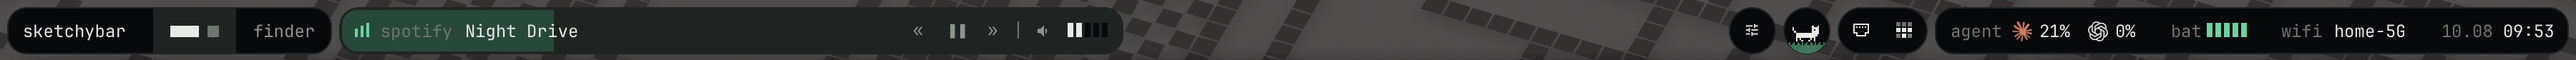
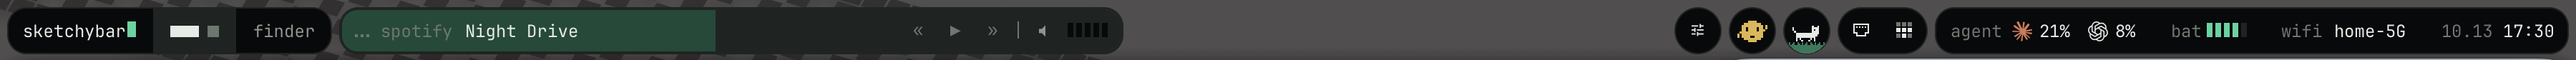
Add Pilo circle, one-shot startup, self-recovery, SSD row
- Pilo circle and popup (optional, needs Pilo): pixel face with arms for
  eight agent states, moving faces per row, legend at the bottom
- Startup: build the bar off screen, batch commands, show it once all
  values and widths are in place (about 2 s)
- health.sh / display.sh: re-measure after sleep or display changes and
  restart SketchyBar when its windows went missing
- SYSTEM popup: SSD used / total / free row
- Wi-Fi name shown in full (15 chars + ellipsis past 16)
- CAL_NEXT setting for the next-event text, default off
- README: Pilo requirement note, new bar and Pilo popup screenshots

Claude-Session: https://claude.ai/code/session_01UkBfjhtxxtx9h6gFCPMcpe

diff --git a/plugins/pixel.py b/plugins/pixel.py
@@ -70,3 +70,52 @@ for k in range(1, 5):
                         for xx in range(X0 + x0, X0 + x1): g[yy][xx] = col
         g = [[g[y][x] if inside_px(x, y) else None for x in range(66)] for y in range(66)]
         png_px(f'{out}/cc_{k}{wname}.png', g)
+# pilo circle (optional): a round face with two arms = the state of your Pilo agents. No mark icons - arm pose, expression and color only
+#   16×12 cells (3px each = 48×36px), dead centre of the 66px circle: origin (9, 15) → centre (33, 33). Body 10×10 cells (cols 3~12 · rows 1~10), arms 3 cells on each side
+#   pilo_<state>_<frame>.png (66×66) · pilo_s_<state>_<frame>.png (popup rows, 2px cells = 16×12pt)
+ERR = rgba(sys.argv[5]) if len(sys.argv) > 5 else W
+BODY = ['...####...', '.########.'] + ['##########'] * 6 + ['.########.', '...####...']   # rows 1~10
+ARM = {'down': [(6, 2), (7, 1), (8, 1)], 'mid': [(6, 2), (6, 1), (6, 0)], 'up': [(5, 2), (4, 1), (3, 0)], 'upb': [(5, 2), (4, 1), (3, 1)],
+       'droop': [(7, 2), (8, 2), (9, 2)], 'head': [(4, 2), (3, 2), (2, 3), (1, 4)], 'headb': [(4, 2), (3, 2), (2, 3)], 'tuck': [(7, 2), (8, 2)], None: []}
+EYES = {'open': [(4, 5), (5, 5)], 'shut': [(5, 4), (5, 5)], 'x': [(4, 4), (4, 6), (5, 5), (6, 4), (6, 6)], 'gt': [(4, 4), (5, 5), (6, 4)], 'dot': [(5, 5)]}   # left eye (the right one is mirrored)
+MOUTH = {'smile': [(7, 6), (8, 7), (8, 8), (7, 9)], 'o': [(8, 7), (8, 8)], 'flat': [(8, 6), (8, 7), (8, 8), (8, 9)], 'frown': [(8, 6), (7, 7), (7, 8), (8, 9)],
+         'low': [(8, 6), (8, 7), (8, 8), (8, 9)], 'low1': [(8, 7), (8, 8), (8, 9)], '': []}   # low/low1 = empty gauge (one cell left ↔ none)
+#  state: color, frames [(left arm, right arm, eyes, mouth, breathing)]
+POSES = {
+  'running': (T,   [('up', 'down', 'open', 'smile', 0), ('mid', 'mid', 'open', 'smile', 0), ('down', 'up', 'open', 'smile', 0), ('mid', 'mid', 'open', 'smile', 0)]),   # arms swinging in turn
+  'blocked': (W,   [('down', 'up', 'open', 'o', 0), ('down', 'upb', 'open', 'o', 0)]),                 # one arm up, waving
+  'stalled': (W,   [('droop', 'droop', 'dot', 'frown', 0), ('droop', 'droop', 'shut', 'frown', 0)]),   # arms limp, slow blink
+  'failed':  (ERR, [('up', 'up', 'x', 'flat', 0), ('upb', 'upb', 'x', 'flat', 0)]),                    # both arms up, flailing
+  'gaveUp':  (ERR, [('head', 'head', 'shut', 'flat', 0), ('headb', 'headb', 'shut', 'flat', 0)]),      # holding its head
+  'limited': (T3,  [('down', 'down', 'gt', 'low1', 0), ('down', 'down', 'gt', 'low', 0)]),             # arms down, empty gauge
+  'idle':    (T3,  [('tuck', 'tuck', 'shut', '', 0), ('tuck', 'tuck', 'shut', '', 1)]),                # arms tucked, asleep (breathing)
+  'unbound': (T3,  [(None, None, None, '', 0)]),                                                      # dim outline
+}
+def pose(state, k):  # 16×12 cells → color or None
+    col, frames = POSES[state]; la, ra, e, m, br = frames[k]
+    g = [[None] * 16 for _ in range(12)]
+    rows = BODY[1:] if br else BODY   # breathing: one cell shorter (the top comes down)
+    for r, line in enumerate(rows):
+        for c, ch in enumerate(line):
+            if ch == '#': g[r + 1 + br][c + 3] = col
+    if e is None:   # no session: outline only
+        full = [[bool(x) for x in row] for row in g]
+        for r in range(12):
+            for c in range(16):
+                if full[r][c] and all(0 <= r + dr < 12 and 0 <= c + dc < 16 and full[r + dr][c + dc] for dr, dc in ((1, 0), (-1, 0), (0, 1), (0, -1))): g[r][c] = None
+        return g
+    for r, c in EYES[e] + MOUTH[m]: g[r][c] = None
+    for r, c in EYES[e]: g[r][15 - c] = None
+    for r, c in ARM[la]: g[r][c] = col
+    for r, c in ARM[ra]: g[r][15 - c] = col
+    return g
+for st, (_, frames) in POSES.items():
+    for k in range(len(frames)):
+        g = [[None] * 66 for _ in range(66)]
+        for r, row in enumerate(pose(st, k)):
+            for c, col in enumerate(row):
+                if col:
+                    for yy in range(15 + r * 3, 18 + r * 3):
+                        for xx in range(9 + c * 3, 12 + c * 3): g[yy][xx] = col
+        png_px(f'{out}/pilo_{st}_{k + 1}.png', [[g[y][x] if inside_px(x, y) else None for x in range(66)] for y in range(66)])
+    for k in range(len(frames)): png(f'{out}/pilo_s_{st}_{k + 1}.png', pose(st, k))   # popup rows move with the same frames

diff --git a/README.md b/README.md
@@ -18,21 +18,26 @@ On a display without a notch the media island ends 5pt left of the screen centre
 | ![wifi popup](screenshots/popup-wifi.png) | ![agent usage popup](screenshots/popup-agent.png) |
 | ![tailscale popup](screenshots/popup-tailscale.png) | ![volume popup](screenshots/popup-volume.png) |
 
+The Pilo circle and its popup (needs [Pilo](https://pilo.garamnoh.workers.dev), see below):
+
+<img src="screenshots/popup-pilo.png" alt="pilo popup" width="530">
+
 ## What's in it
 
-- **Left island** — wordmark, spaces, front app (click: the app's menus in a popup)
-- **Media island** — now playing with a progress fill, controls, volume + output device switcher
-- **Circles** — settings, a pixel cat that runs faster with CPU load (click: CPU / memory), listening ports, Tailscale devices
-- **Right island** — Claude Code / Codex usage, battery, Wi-Fi (saved networks in range), calendar with holidays
+- **Left island** - wordmark, spaces, front app (click: the app's menus in a popup)
+- **Media island** - now playing with a progress fill, controls, volume + output device switcher
+- **Circles** - settings, a pixel cat that runs faster with CPU load (click: CPU / memory / SSD space), listening ports, Tailscale devices
+- **Pilo circle** *(optional, needs Pilo)* - a small pixel character that acts out the most urgent state of your [Pilo](https://pilo.garamnoh.workers.dev) agents with its arms, face and colour: working, waiting on you, stalled, failed, wake failed, limited, no session, idle. Click it for a popup that lists every agent with its own moving face, plus a legend of the eight states. **This part only works with Pilo installed** (npm release coming soon). Without the `pilo` command the circle hides itself and takes no space; the rest of the bar is unaffected
+- **Right island** - Claude Code / Codex usage, battery, Wi-Fi (saved networks in range), calendar with holidays
 - Dark / light theme, works on displays with or without a notch (no notch: the media island ends 5pt left of the screen centre)
 
 ## Requirements
 
 - macOS 14+ (developed on macOS 26/27, Apple silicon)
-- [Homebrew](https://brew.sh) and Xcode Command Line Tools (`xcode-select --install`) — the helpers are small Swift files compiled on install
+- [Homebrew](https://brew.sh) and Xcode Command Line Tools (`xcode-select --install`) - the helpers are small Swift files compiled on install
 - Installed by `install.sh`: SketchyBar, JetBrains Mono, JetBrainsMono Nerd Font, [media-control](https://github.com/ungive/media-control)
 
-Optional — each part hides or degrades without it:
+Optional - each part hides or degrades without it:
 
 | Tool | Used for |
 |---|---|
@@ -40,6 +45,7 @@ Optional — each part hides or degrades without it:
 | [Rectangle](https://github.com/rxhanson/Rectangle) | auto-maximise new windows (`AUTOMAX` in `config.sh`) |
 | Ghostty | opening the config / long lists in a terminal (falls back to the default text editor) |
 | Tailscale, Docker / OrbStack, ollama, `gh` | their cells and popups |
+| [Pilo](https://pilo.garamnoh.workers.dev) (npm release coming soon) | the Pilo circle and popup (hidden without the `pilo` command) |
 
 ## Install
 
@@ -56,7 +62,7 @@ One-time setup:
 2. Privacy & Security → **Accessibility**: allow `sketchybar` (front-app menu popup)
 3. First time you open the Wi-Fi popup: allow **Location** for "SketchyBar Wi-Fi Scan" (macOS only reveals nearby network names to apps with Location access; nothing is stored or sent)
 4. First time you open the calendar popup: allow **Calendars**
-5. Folder / git branch cell — add to `~/.zshrc`:
+5. Folder / git branch cell - add to `~/.zshrc`:
 
    ```zsh
    _sb_cwd() { sketchybar --trigger shell_cwd CWD="$PWD" &! }
@@ -65,7 +71,7 @@ One-time setup:
 
 ## Make it yours
 
-Everything personal lives in **`config.sh`** — change these, then `sketchybar --reload`:
+Everything personal lives in **`config.sh`** - change these, then `sketchybar --reload`:
 
 | Setting | Meaning |
 |---|---|
@@ -74,20 +80,25 @@ Everything personal lives in **`config.sh`** — change these, then `sketchybar 
 | `BAR_DISPLAY` | `main`, or a display number from `sketchybar --query displays` |
 | `WORK_DIR` | ports popup lists servers started under this folder |
 | `HOLIDAY_CAL` | name of a subscribed holiday calendar in Calendar.app, e.g. `"US Holidays"` (empty = no holidays) |
+| `CAL_NEXT` | `1` shows the next event (starting within `CAL_WINDOW_MIN` minutes) next to the app name on the left island. Default `0` (off) |
 | `AUTOMAX`, `AUTOMAX_INCLUDE`, `AUTOMAX_EXCLUDE` | auto-maximise new windows via Rectangle |
+| `PILO_ISLAND`, `PILO_ANIM` | `1` shows the Pilo circle when `pilo` is installed and running, `0` turns it off; `PILO_ANIM=0` keeps it still |
 | `NOTIF_APPS`, `TERMINAL_APP` | Dock-badge apps, terminal used by popups |
 
 Colours are tokens in `colors.sh`. Layout is `sketchybarrc`; each cell and popup is a script in `plugins/`; `helper/` holds the Swift sources (`helper/build.sh` rebuilds them).
 
 ## Notes
 
+- **Starts in one go.** The bar is built off screen and shown once every item, first value and island width is in place (about 2 s after launch), so you never see it assemble piece by piece.
+- **Recovers by itself.** After sleep or a display change it re-measures the notch and display, and if the bar's windows went missing it restarts SketchyBar (at most once every 5 minutes).
+
 - **As-is.** This is a personal setup shared for reference. It is tuned for one machine (a 1800pt-wide notch display); expect to adjust things. No support promised.
-- Nothing here talks to the network except what you click (opening URLs) — usage numbers, Wi-Fi, Tailscale and calendar data are read locally at runtime and are not part of this repository.
+- Nothing here talks to the network except what you click (opening URLs) - usage numbers, Wi-Fi, Tailscale and calendar data are read locally at runtime and are not part of this repository.
 
 ## Credits
 
-- [SketchyBar](https://github.com/FelixKratz/SketchyBar) by Felix Kratz (GPL-3.0) — the bar itself; this repo is only configuration
-- [JetBrains Mono](https://github.com/JetBrains/JetBrainsMono) (OFL-1.1) and [Nerd Fonts](https://github.com/ryanoasis/nerd-fonts) (MIT; bundled glyph sets under their own licences, incl. Material Design Icons — Apache-2.0 — and Codicons — CC-BY-4.0). Fonts are installed by Homebrew, not redistributed here
+- [SketchyBar](https://github.com/FelixKratz/SketchyBar) by Felix Kratz (GPL-3.0) - the bar itself; this repo is only configuration
+- [JetBrains Mono](https://github.com/JetBrains/JetBrainsMono) (OFL-1.1) and [Nerd Fonts](https://github.com/ryanoasis/nerd-fonts) (MIT; bundled glyph sets under their own licences, incl. Material Design Icons - Apache-2.0 - and Codicons - CC-BY-4.0). Fonts are installed by Homebrew, not redistributed here
 - [media-control](https://github.com/ungive/media-control) for now-playing data
 - The Claude and OpenAI marks in the agent cell are Nerd Font glyphs; the names and logos belong to their owners
 - Pixel icons (cat, port, Tailscale dots) were drawn for this setup
